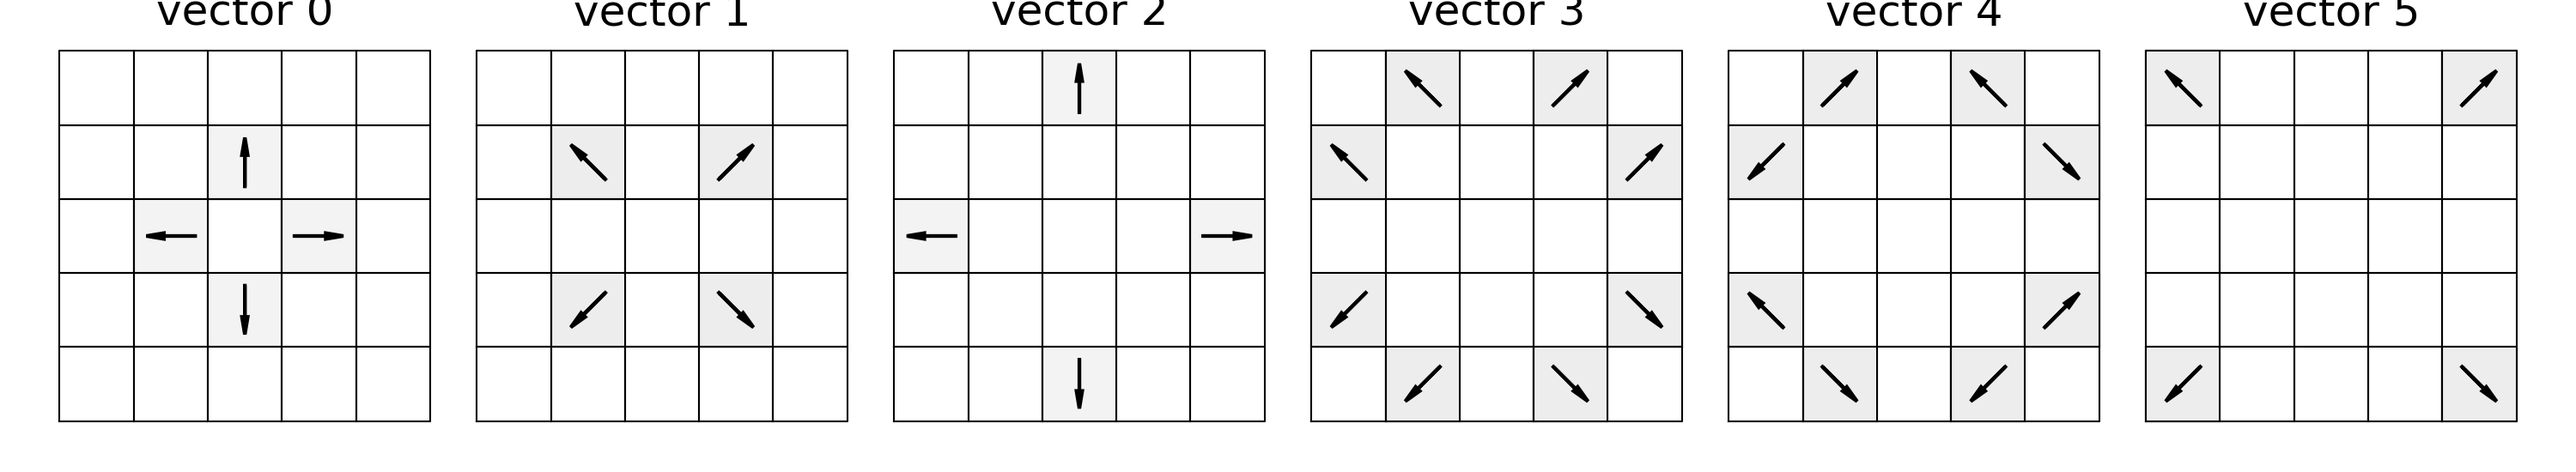
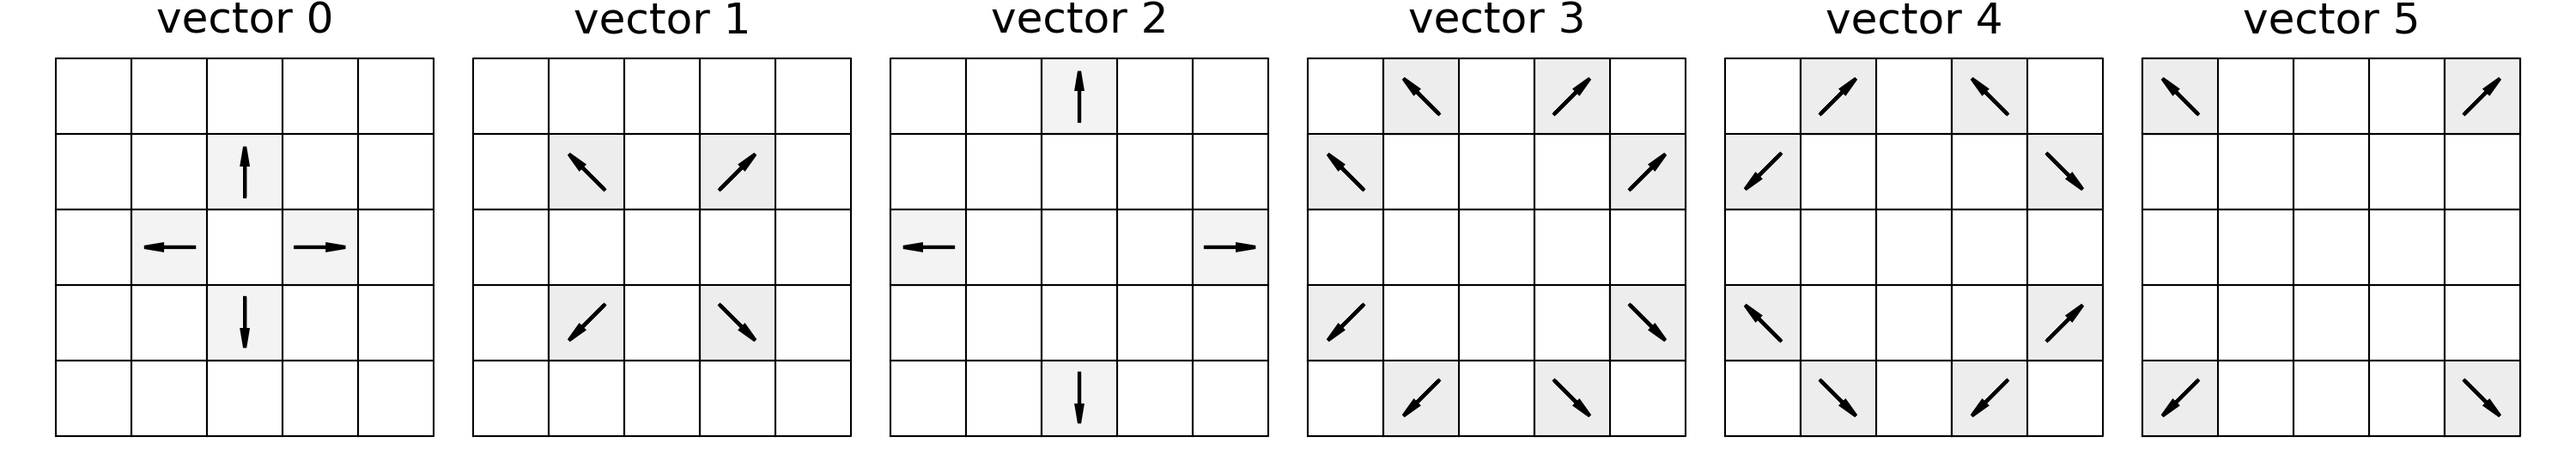
tiny tweaks to figure placement; still sux

diff --git a/notebooks/geometric.py b/notebooks/geometric.py
@@ -423,13 +423,13 @@ def plot_no_filter(ax):
 def plot_filters(filters, names, n):
     assert len(filters) <= n
     bar = 10. # figure width in inches?
-    fig, axes = plt.subplots(1, n, figsize = (bar, 1.1 * bar / n))
+    fig, axes = plt.subplots(1, n, figsize = (bar, 0.1 + bar / n)) # magic
     if n == 1:
         axes = [axes, ]
     bar = 0.2
     foo = bar / n # fractional?
     plt.subplots_adjust(left=foo/2, right=1-foo/2, wspace=foo,
-                        bottom=bar/2, top=1-bar/2, hspace=bar)
+                        bottom=foo)
     for i, (ff, name) in enumerate(zip(filters, names)):
         if ff.k == 0:
             plot_scalar_filter(ff, name, ax=axes[i])
